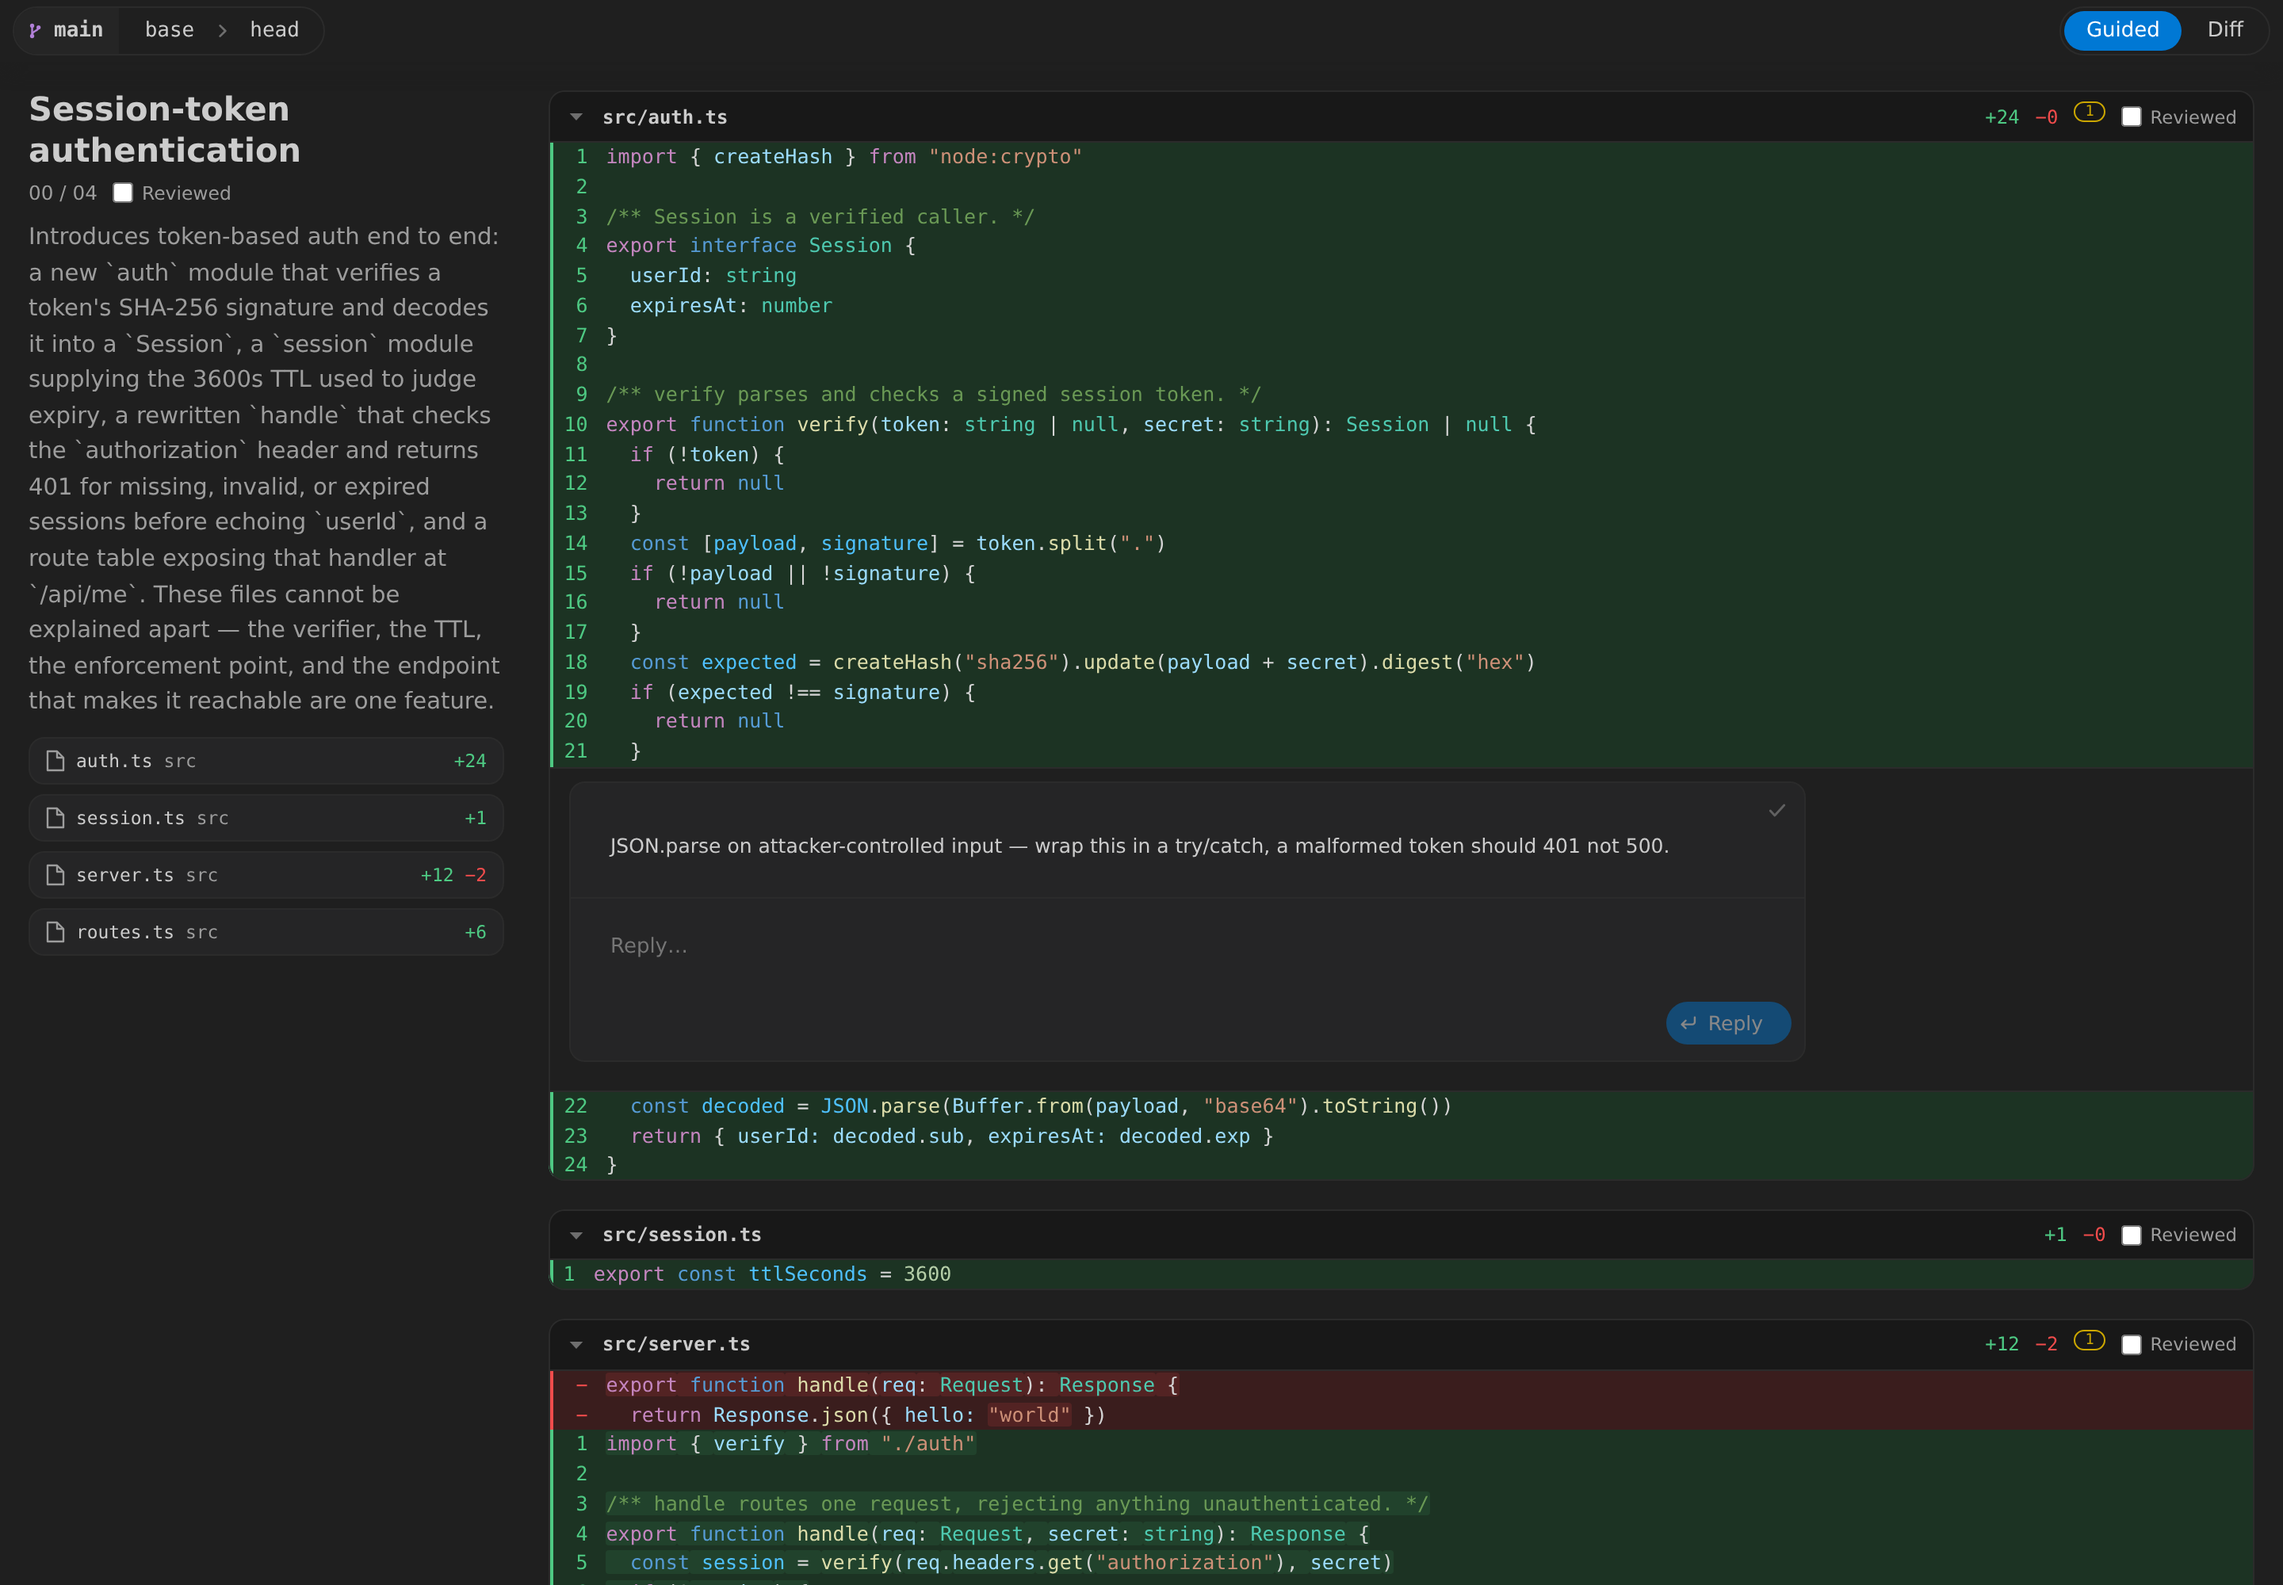
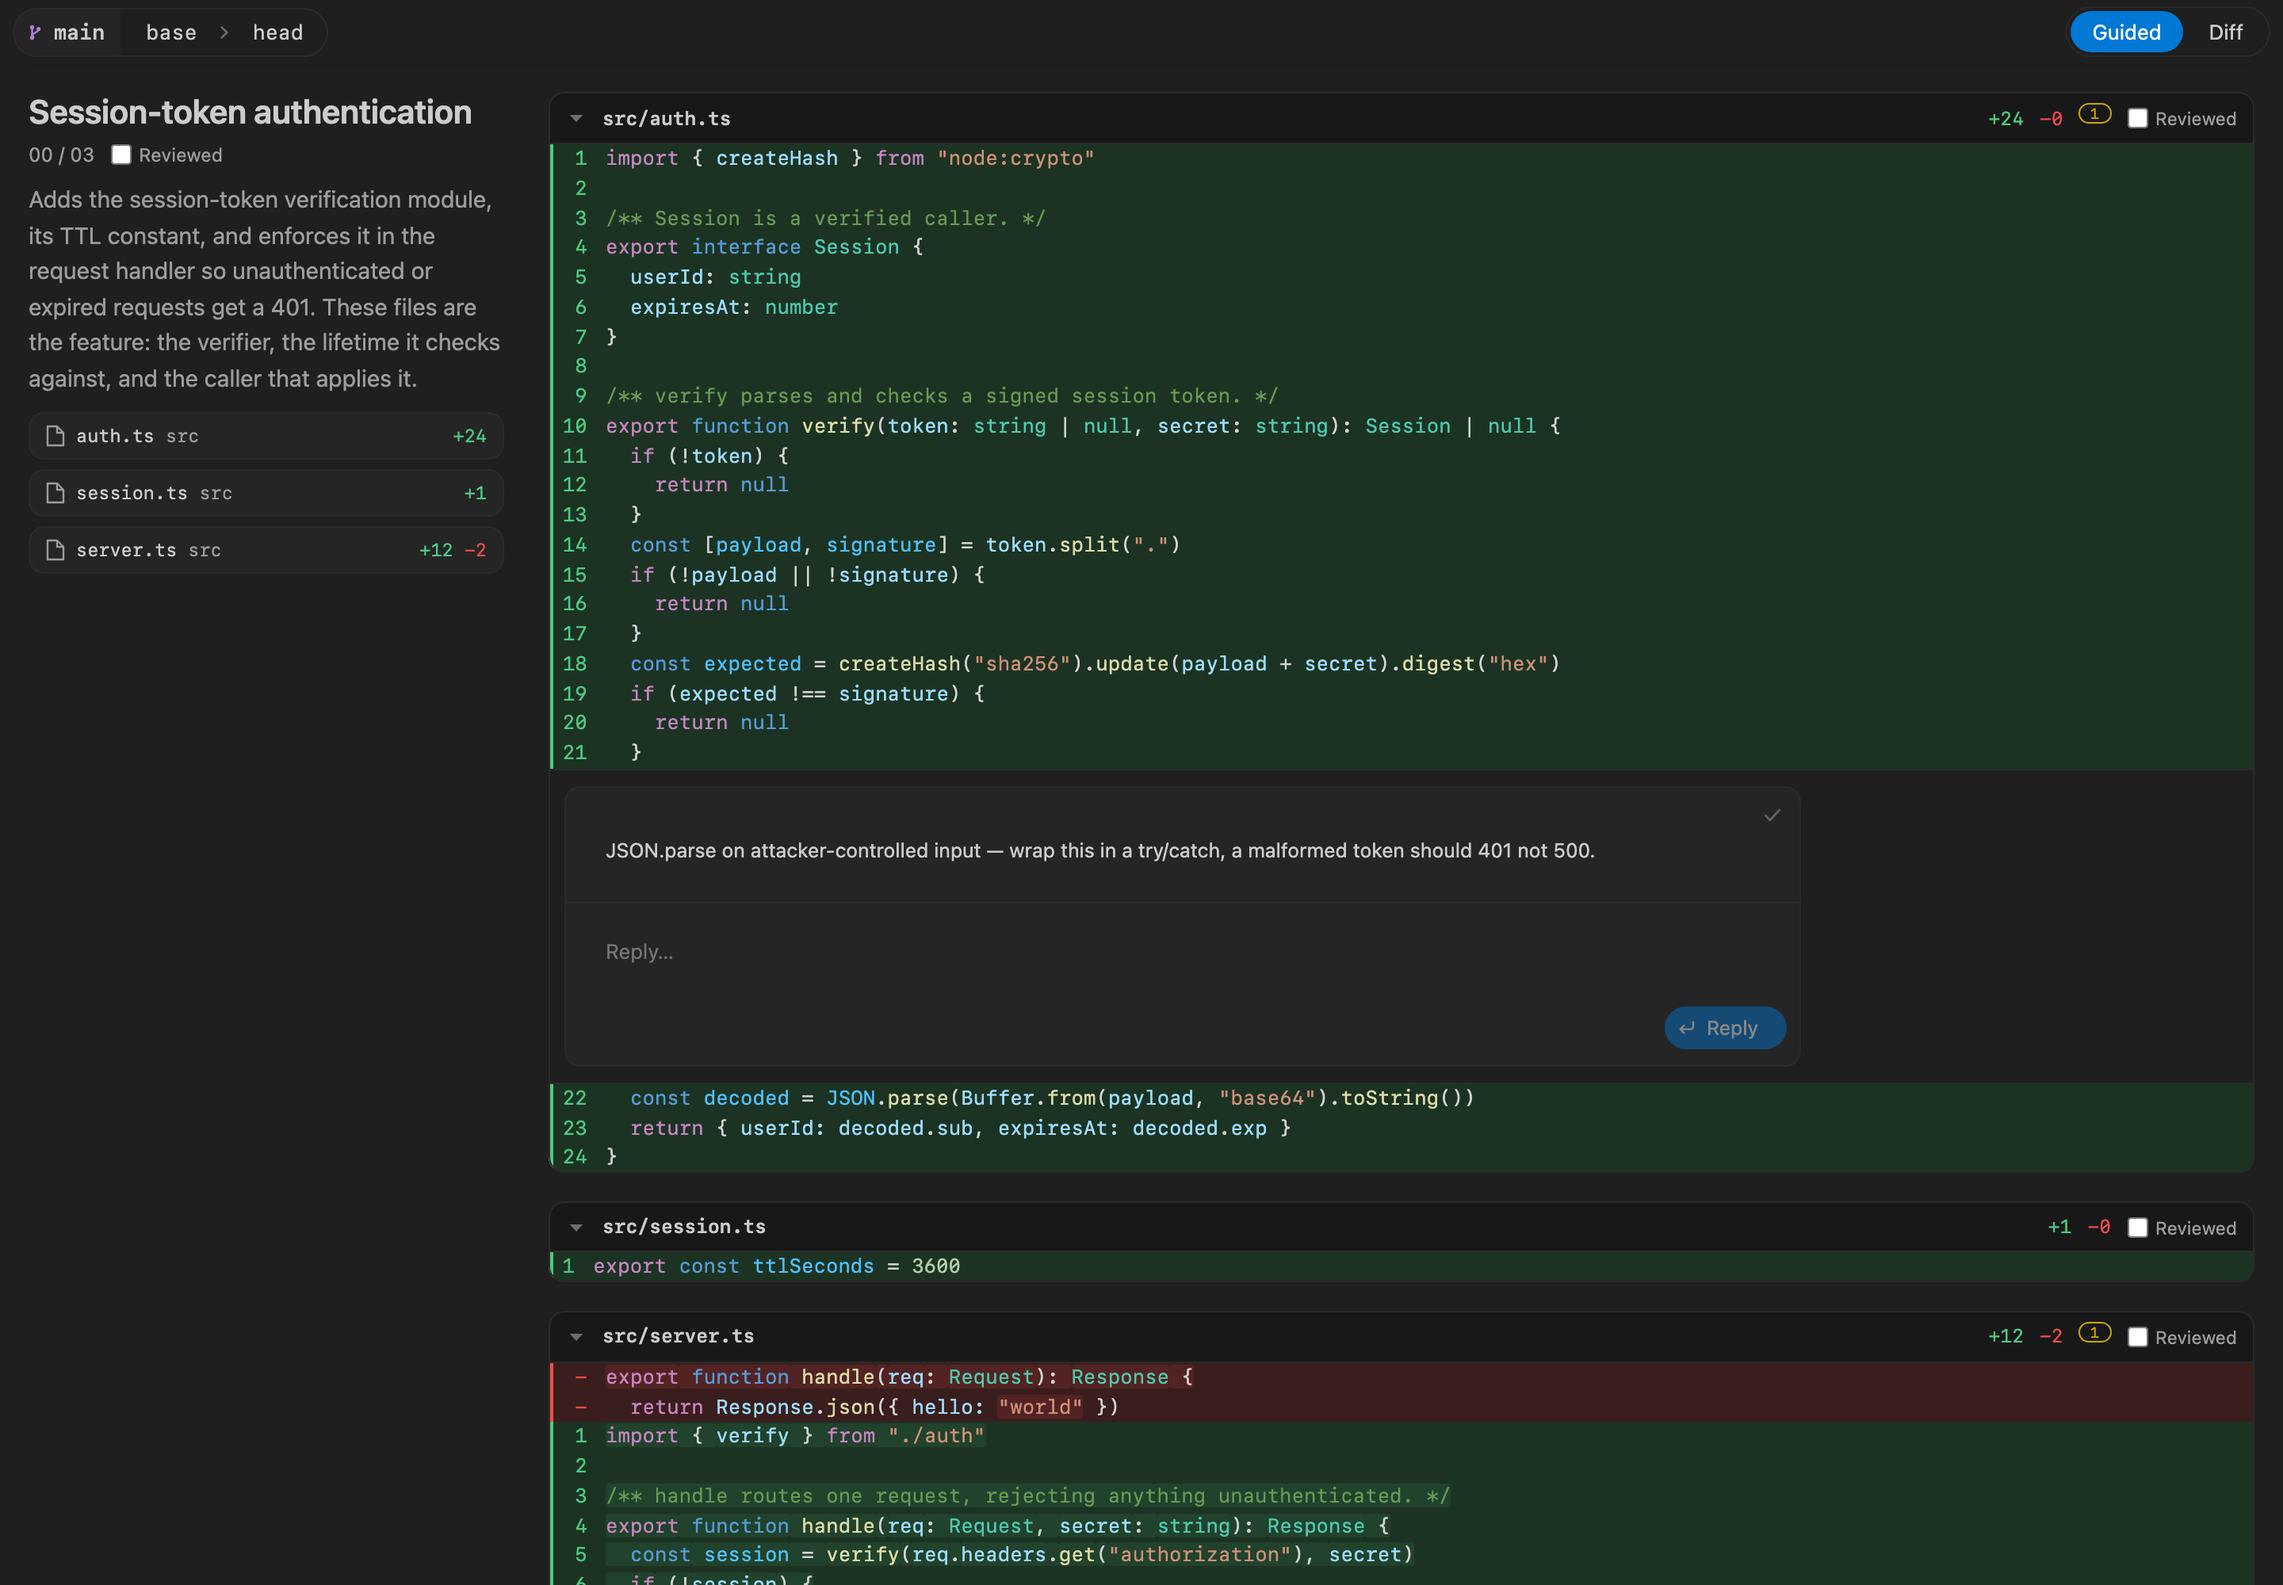
Space a comment thread evenly inside its row

diff --git a/src/webview/theme.css b/src/webview/theme.css
@@ -692,7 +692,7 @@ textarea:focus { outline: 1px solid var(--vscode-focusBorder); }
 /* ── threads ───────────────────────────────────────────────────────────── */
 
 /* a thread hangs off the line it marks, not off a column of its own */
-.gr-widget { padding: 8px 10px 10px 12px; border-top: 1px solid var(--vscode-panel-border); border-bottom: 1px solid var(--vscode-panel-border); }
+.gr-widget { padding: 10px 9px; border-top: 1px solid var(--vscode-panel-border); border-bottom: 1px solid var(--vscode-panel-border); }
 
 .gr-thread {
   position: relative;
@@ -703,6 +703,8 @@ textarea:focus { outline: 1px solid var(--vscode-focusBorder); }
   margin-bottom: 8px;
   max-width: 760px;
 }
+
+.gr-widget > :last-child { margin-bottom: 0; }
 
 .gr-thread.focused { border-color: var(--vscode-focusBorder); box-shadow: 0 0 0 1px var(--vscode-focusBorder); }
 
